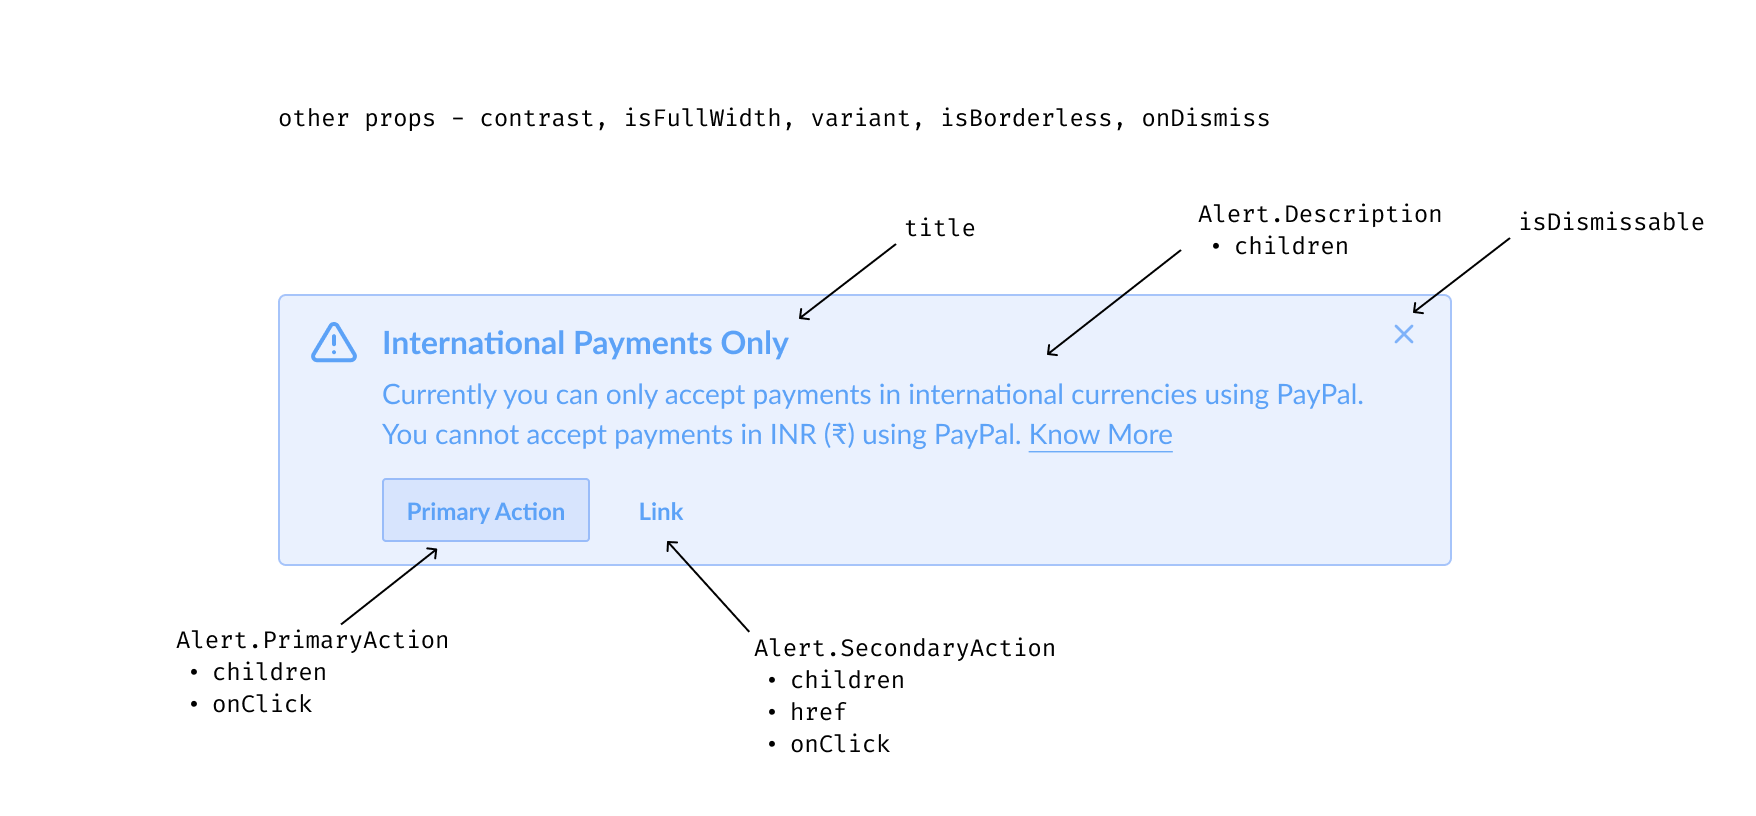
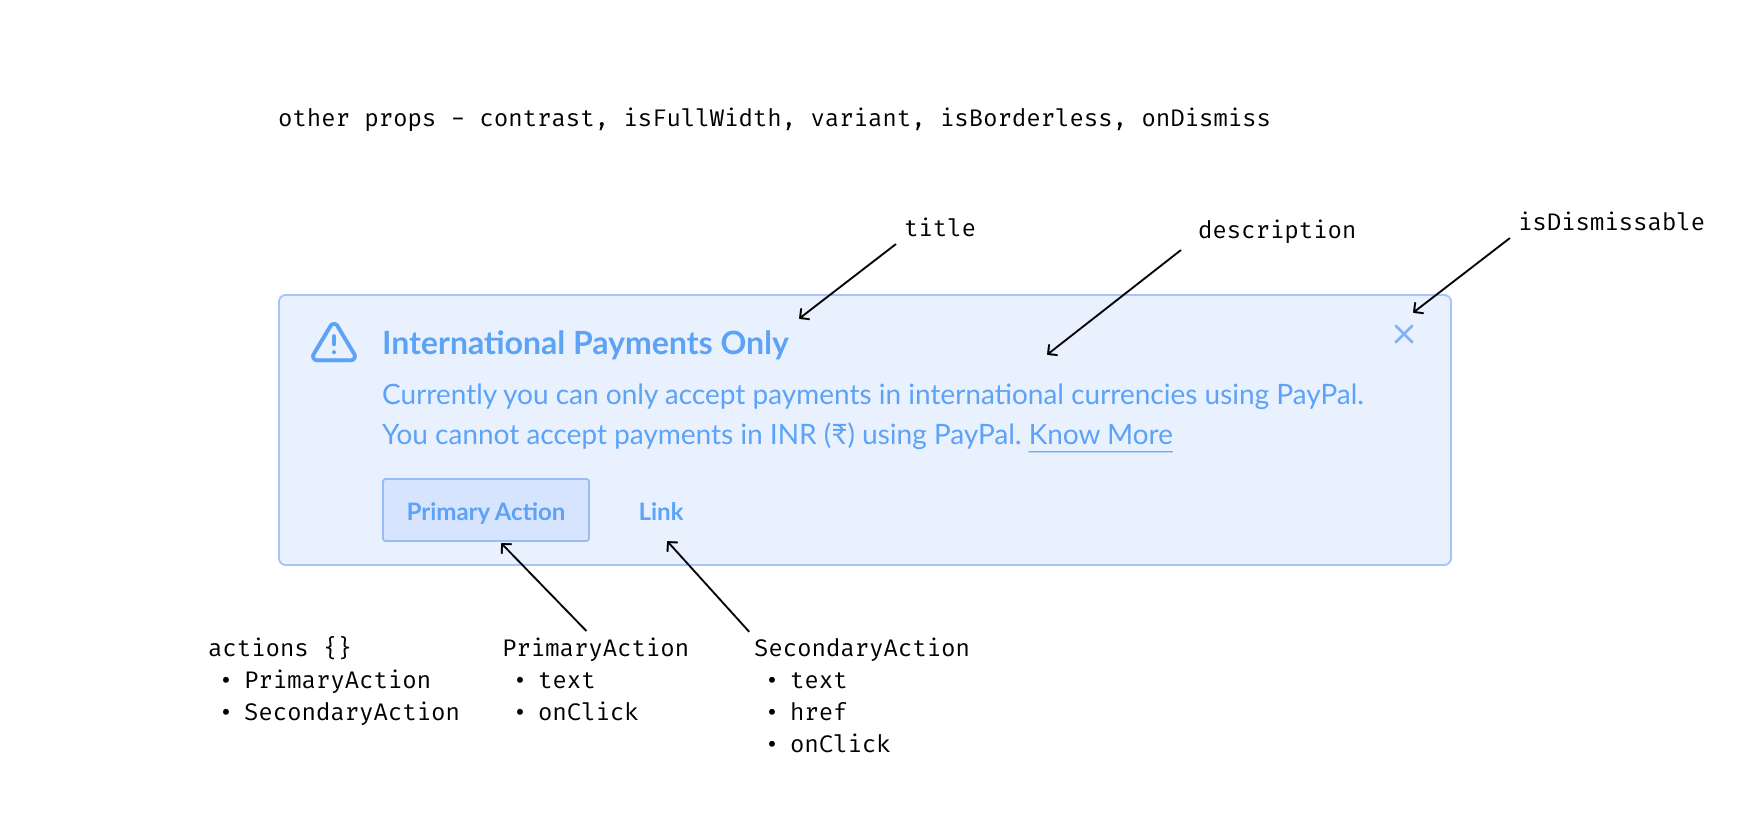
Add inline props API

diff --git a/packages/blade/src/components/Alert/_decisions/decisions.md b/packages/blade/src/components/Alert/_decisions/decisions.md
@@ -29,76 +29,57 @@ Sample usage:
 ```jsx
 import { Alert, Link } from '@razorpay/blade';
 
-<Alert title="International Payments Only">
-  <Alert.Description>
-    Currently you can only accept payments in international currencies using PayPal. You cannot
-    accept payments in INR (₹) using PayPal. <Link href="https://razorpay.com">Know More</Link>
-  </Alert.Description>
-  <Alert.PrimaryAction
-    onClick={() => {
-      // do something
-    }}
-  >
-    Primary Action
-  </Alert.PrimaryAction>
-  <Alert.SecondaryAction
-    onClick={() => {
-      // do something
-    }}
-    href="https://razorpay.com"
-  >
-    Link
-  </Alert.SecondaryAction>
-</Alert>;
+<Alert
+  title="International Payments Only"
+  description={
+    <>
+      Currently you can only accept payments in international currencies using PayPal. You cannot
+      accept payments in INR (₹) using PayPal. <Link href="https://razorpay.com">Know More</Link>
+    </>
+  }
+  actions={{
+    primary: { text: 'Primary Action', onClick: {() => { /* do something */ }} },
+    secondary: { text: 'Link', onClick: {() => { /* do something */ }}, href: 'https://razorpay.com'},
+  }}
+/>;
 ```
 
 ### Alert
 
 We'll expose an `Alert` component with the following API:
 
-| Prop          | Type                                     | Default     | Description                                                                                | Required |
-| ------------- | ---------------------------------------- | ----------- | ------------------------------------------------------------------------------------------ | -------- |
-| `children`    | `string`, Alert sub components           | `undefined` | Body content                                                                               | ✅       |
-| title         | `string`                                 | `undefined` | A brief heading                                                                            |          |
-| isDismissable | `boolean`                                | `true`      | Shows a dismiss button                                                                     |          |
-| onDismiss     | `function`                               | `undefined` | Callback when the dismiss button is pressed                                                |          |
-| contrast      | `high`, `low`                            | `low`       | Can be set to `high` for more prominent look _(not related to a11y)_                       |          |
-| isFullWidth   | `boolean`                                | `false`     | Spans the entire width of container, otherwise max width is restricted to 584px by default |          |
-| variant       | `info`, `positive`, `notice`, `negative` | `info`      | Sets the color tone of entire alert. Icon is set automatically based on variant \*         |          |
-| isBorderless  | `boolean`                                | `false`     | Removes borders and border radii, useful for creating a full bleed layout                  |          |
+| Prop          | Type                                                        | Default     | Description                                                                                | Required |
+| ------------- | ----------------------------------------------------------- | ----------- | ------------------------------------------------------------------------------------------ | -------- |
+| description   | `string`, `JSX`                                             | `undefined` | Body content                                                                               | ✅       |
+| title         | `string`                                                    | `undefined` | A brief heading                                                                            |          |
+| isDismissable | `boolean`                                                   | `true`      | Shows a dismiss button                                                                     |          |
+| onDismiss     | `function`                                                  | `undefined` | Callback when the dismiss button is pressed                                                |          |
+| contrast      | `high`, `low`                                               | `low`       | Can be set to `high` for more prominent look _(not related to a11y)_                       |          |
+| isFullWidth   | `boolean`                                                   | `false`     | Spans the entire width of container, otherwise max width is restricted to 584px by default |          |
+| variant       | `info`, `positive`, `notice`, `negative`                    | `info`      | Sets the color tone of entire alert. Icon is set automatically based on variant            |          |
+| isBorderless  | `boolean`                                                   | `false`     | Removes borders and border radii, useful for creating a full bleed layout                  |          |
+| actions       | `{ primary: PrimaryAction, secondary: SecondaryAction }` \* | `{}`        | Renders a primary action button and a secondary action link button                         |          |
 
-We'll also expose the following sub components on `Alert` which can be passed as children to `Alert`. The order of passing these as children doesn't matter:
+`PrimaryAction` and `SecondaryAction` will accept objects with the following keys:
 
-| Sub component           | Description                                                          | Required |
-| ----------------------- | -------------------------------------------------------------------- | -------- |
-| `Alert.Description`     | For setting body content                                             | ✅       |
-| `Alert.PrimaryAction`   | Renders a primary `Button`                                           |          |
-| `Alert.SecondaryAction` | Renders a button `Link`, requires `Alert.PrimaryAction` alongside \* |          |
+### PrimaryAction
 
-### Alert.Description
+Renders and accepts a subset of `Button` props as keys:
 
-| Prop       | Type            | Default     | Description | Required |
-| ---------- | --------------- | ----------- | ----------- | -------- |
-| `children` | `string`, `JSX` | `undefined` | Content \*  | ✅       |
+| Key       | Type       | Default     | Description | Required |
+| --------- | ---------- | ----------- | ----------- | -------- |
+| `text`    | `string`   | `undefined` | Content     | ✅       |
+| `onClick` | `function` | `undefined` | Callback    |          |
 
-### Alert.PrimaryAction
+### SecondaryAction
 
-`Alert.PrimaryAction` renders and accepts a subset of `Button` (primary) props:
+Renders and accepts a subset of `Link` (button) props as keys:
 
-| Prop       | Type       | Default     | Description                            | Required |
-| ---------- | ---------- | ----------- | -------------------------------------- | -------- |
-| `children` | `string`   | `undefined` | Content, required here unlike `Button` | ✅       |
-| `onClick`  | `function` | `undefined` | Callback                               | ✅       |
-
-### Alert.SecondaryAction
-
-`Alert.SecondaryAction` renders and accepts a subset of `Link` (button) props:
-
-| Prop       | Type       | Default     | Description | Required |
-| ---------- | ---------- | ----------- | ----------- | -------- |
-| `children` | `string`   | `undefined` | Content     | ✅       |
-| `href`     | `string`   | `undefined` | Hyperlink   |          |
-| `onClick`  | `function` | `undefined` | Callback    |          |
+| Key       | Type       | Default     | Description | Required |
+| --------- | ---------- | ----------- | ----------- | -------- |
+| `text`    | `string`   | `undefined` | Content     | ✅       |
+| `href`    | `string`   | `undefined` | Hyperlink   |          |
+| `onClick` | `function` | `undefined` | Callback    |          |
 
 There'll also be an internal `BaseAlert` component that handles rendering web or native version similar to other Blade components. API would be similar to `Alert`.
 
@@ -124,11 +105,10 @@ Some example usage patterns of `Alert`.
 <img src="./alert-without-title.png" alt="" width="520">
 
 ```jsx
-<Alert variant="notice">
-  <Alert.Description>
-    The payment was made 6 months ago, therefore you can’t issue refund to this merchant.
-  </Alert.Description>
-</Alert>
+<Alert
+  variant="notice"
+  description="The payment was made 6 months ago, therefore you can’t issue refund to this merchant."
+/>
 ```
 
 ### Full bleed
@@ -142,12 +122,16 @@ This full bleed layout works for all desktop, mobile and native when the `isBord
 <img src="./alert-mobile-full-bleed.png" alt="" width="520">
 
 ```jsx
-<Alert title="International Payments Only" isBorderless>
-  <Alert.Description>
-    Use vendor payouts to quickly generate invoices.{' '}
-    <Link href="https://razorpay.com">Know More</Link>
-  </Alert.Description>
-</Alert>
+<Alert
+  title="International Payments Only"
+  isBorderless
+  description={
+    <>
+      Use vendor payouts to quickly generate invoices.{' '}
+      <Link href="https://razorpay.com">Know More</Link>
+    </>
+  }
+/>
 ```
 
 ## Open questions
@@ -156,13 +140,52 @@ This full bleed layout works for all desktop, mobile and native when the `isBord
 
 **A1.** It makes more sense to keep the terminologies similar in both design and code (because designs are what gets translated into code). [Related discussion](https://github.com/razorpay/blade/pull/573#discussion_r929998203).
 
-**Q2.** It's possible to pass any JSX as content but ideally we want to restrict it to few components (like `Link`, `string`, `List`). Doing these on code side would mean lot of checks. Similarly, restriction on `Alert.SecondaryAction` which should always be used with `Alert.PrimaryAction`. How do we do these - TS / runtime checks, etc.? One simpler alternative is to rely on design side restrictions for these but it makes the API more flexible should someone want to try things different from design.
+**Q2.** It's possible to pass any JSX as content but ideally we want to restrict it to few components (like `Link`, `string`, `List`). Doing these on code side would mean lot of checks. Similarly, restriction on `SecondaryAction` which should always be used with `PrimaryAction`. How do we do these - TS / runtime checks, etc.? One simpler alternative is to rely on design side restrictions for these but it makes the API more flexible should someone want to try things different from design.
 
-**A2.** TBD
+**A2.** We can do some static checks with TypeScript where feasible, for example enforcing `SecondaryAction` to be used only with `PrimaryAction` but some checks are outside scope of TypeScript and in the realm of runtime checks which at the moment seems like an overkill, for example restricting the content type for `description` prop.
 
 **Q3.** Should we make alerts focussable so they're discoverable by tabbing? It would mean also showing a visible keyboard focus indicator. Not doing this currently because I can't think of possible usecases right now, maybe we can revisit this later if / when needed.
 
 **A3.** TBD
+
+## Alternatives
+
+An alternate API with compound components pattern was considered:
+
+![Alert breakdown](./alert-breakdown-alt-compound.png)
+
+Sample usage:
+
+```jsx
+<Alert title="International Payments Only">
+  <Alert.Description>
+    Currently you can only accept payments in international currencies using PayPal. You cannot
+    accept payments in INR (₹) using PayPal. <Link href="https://razorpay.com">Know More</Link>
+  </Alert.Description>
+  <Alert.PrimaryAction
+    onClick={() => {
+      // do something
+    }}
+  >
+    Primary Action
+  </Alert.PrimaryAction>
+  <Alert.SecondaryAction
+    onClick={() => {
+      // do something
+    }}
+    href="https://razorpay.com"
+  >
+    Link
+  </Alert.SecondaryAction>
+</Alert>
+```
+
+However there are certain issues with this API:
+
+- Discoverability is low (in order to discover what can be passed user needs to type `Alert.`)
+- The order of passing compound components doesn't has any impact on final rendering order
+- More error prone, users can pass unexpected wrappers in children or in between compound components
+- It's harder to define constraints for example - secondary action should only exist in the presence of a primary action
 
 ## References
 
